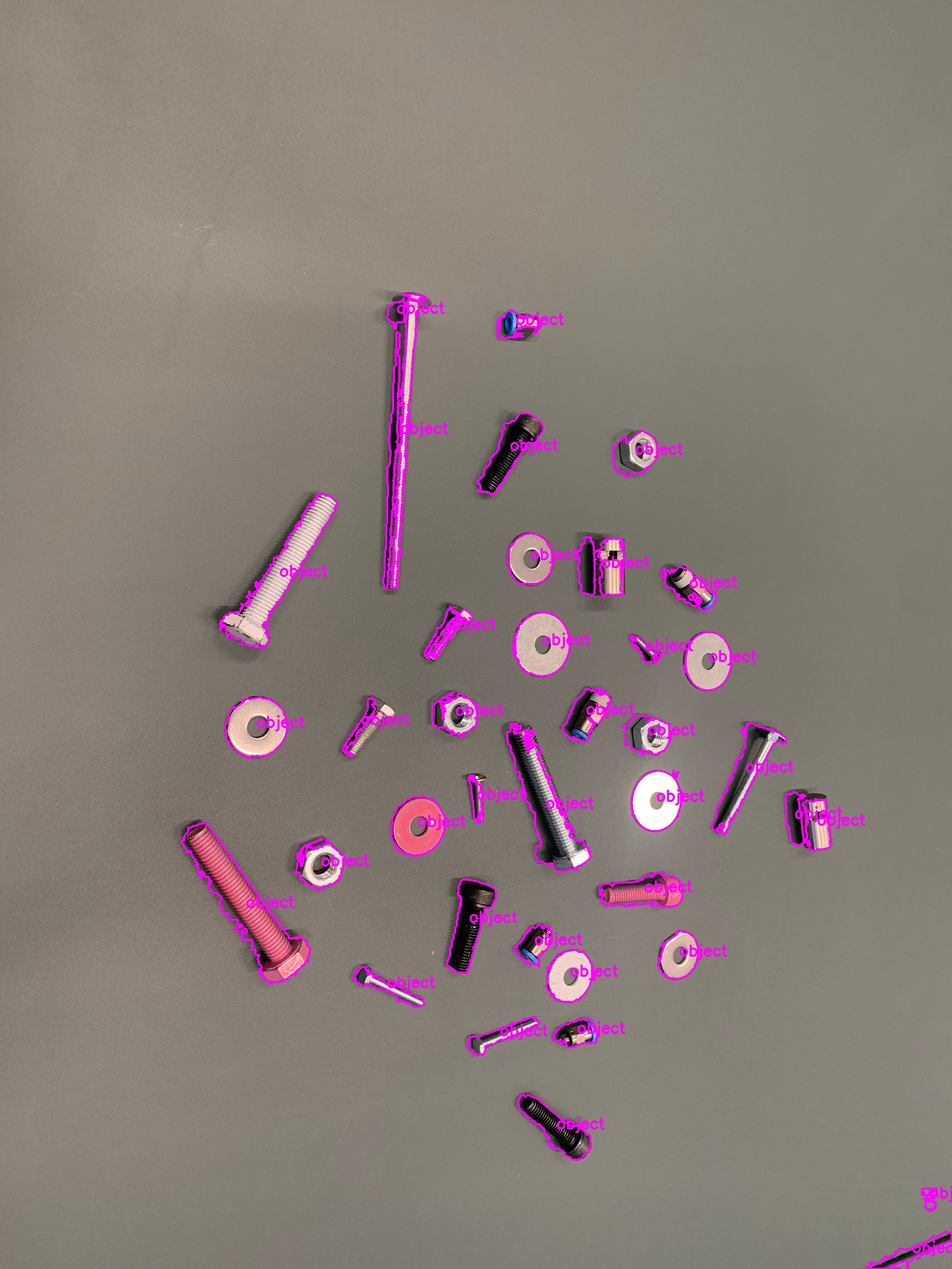
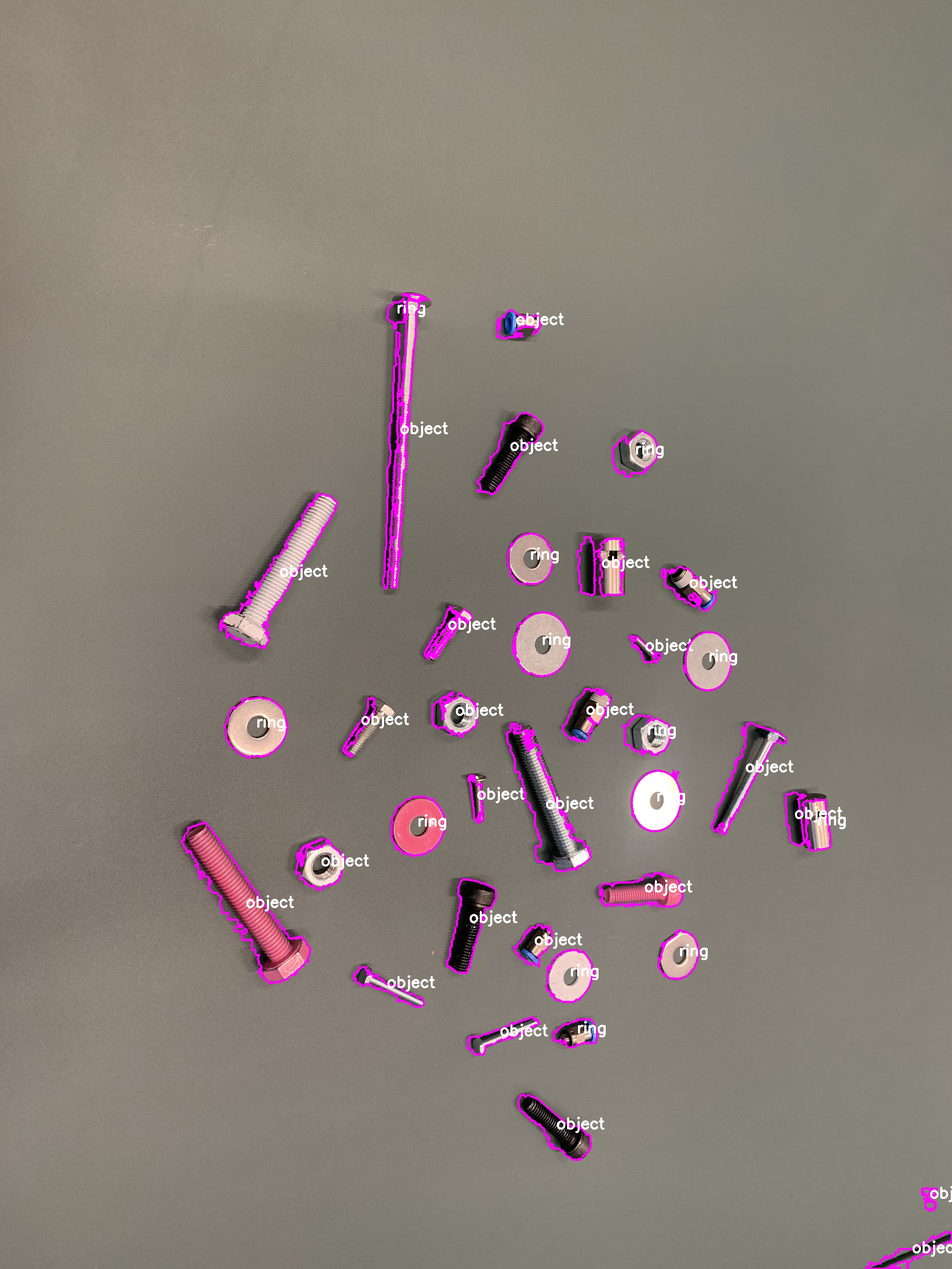
added ring detection via roundness check

diff --git a/Conventional.py b/Conventional.py
@@ -5,6 +5,7 @@ import cv2 as cv
 import os
 import glob
 from typing import List
+from math import pi
 
 # -=-=-=-=- CLASSES -=-=-=-=- #
 
@@ -28,10 +29,22 @@ class object():
 
 # -=-=-=-=- DECLARE FUNCTIONS -=-=-=-=- #
 
-def find_object(contour, original_image) -> str:
-    return "object"
+def roundness(contour, moments) -> float:
+    length = cv.arcLength(contour, True)
+    k = (length * length) / (moments['m00'] * 4 * pi)
+    # print(k)
+    return k
+
+def find_object(contour, moment) -> str:
+    k_value = roundness(contour, moment)
+    if k_value < 3:
+        chosen_object = 'ring'
+    else:
+        chosen_object = 'object'
+    return chosen_object
 
 def find_color(contour, original_image) -> str:
+    # TODO: Check mean color and compare to pre defined colors
     return "color"
 
 # -=-=-=- VARIABLES -=-=-=- #
@@ -103,19 +116,19 @@ for img in images:
             color = find_color(img.cv_image , contour)
             
             # -=- find kind of object -=- #
-            identified_item = find_object(img.cv_image, contour)
+            identified_item = find_object(contour, M)
             
             # -=- add to list -=- #
             item = object(contour, identified_item, (cX, cY), angle, color)
             img.add_contour(item)
 
-    # print("found", len(img.contours), "contours in", img.name)
+    print("found", len(img.contours), "contours in", img.name)
 
     # -=-=- draw contours and put text -=-=- #    
     for contour in range(len(img.contours)):
         # to make a specific contour, use cnt = contours[1], and cnt as a var (instead of img.contours)
         cv.drawContours(img.cv_image, img.contours[contour].outline, -1, (255,0,255), 3)
-        cv.putText(img.cv_image, img.contours[contour].kind_of_object, img.contours[contour].position, cv.FONT_HERSHEY_SIMPLEX, 1.2, (255, 0, 255), 3)
+        cv.putText(img.cv_image, img.contours[contour].kind_of_object, img.contours[contour].position, cv.FONT_HERSHEY_SIMPLEX, 1.2, (255, 255, 255), 4)
     
     # -=-=- save image -=-=- #
     output_dir  = os.path.join(root_dir,'output_conventional', img.name)
